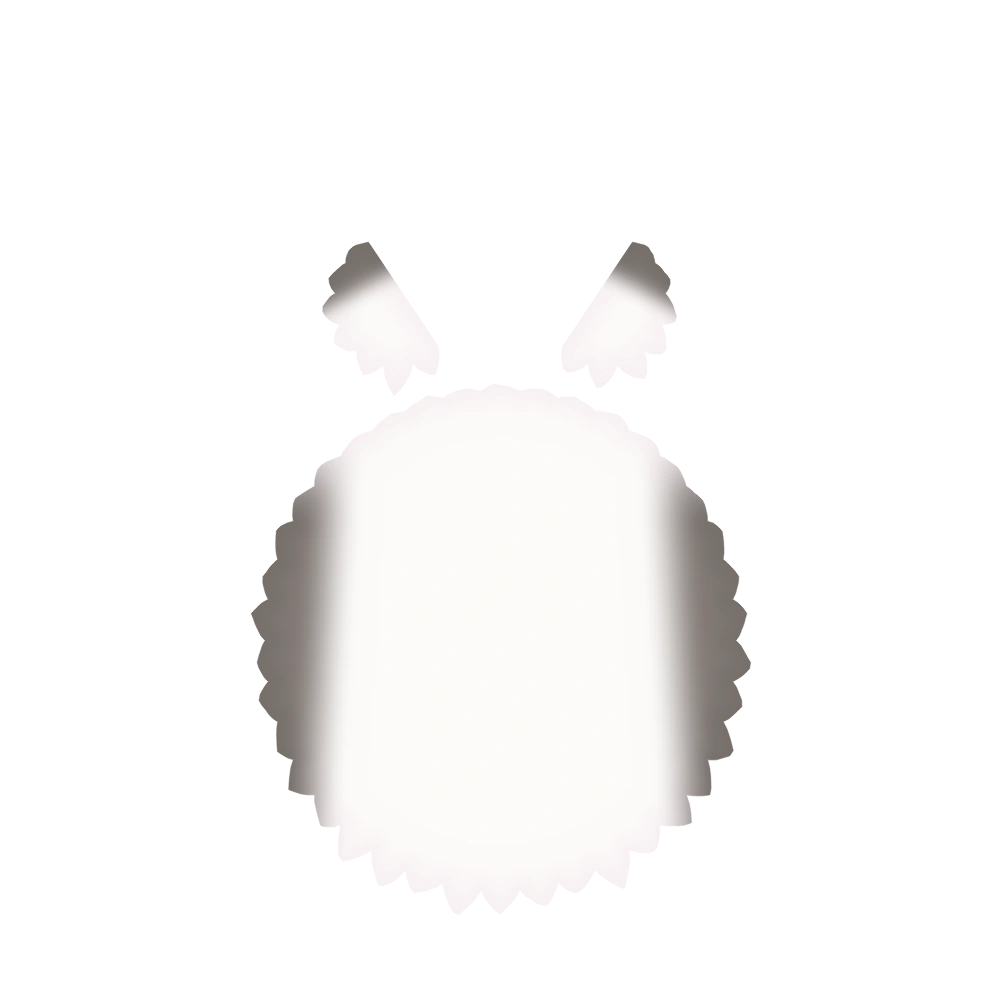
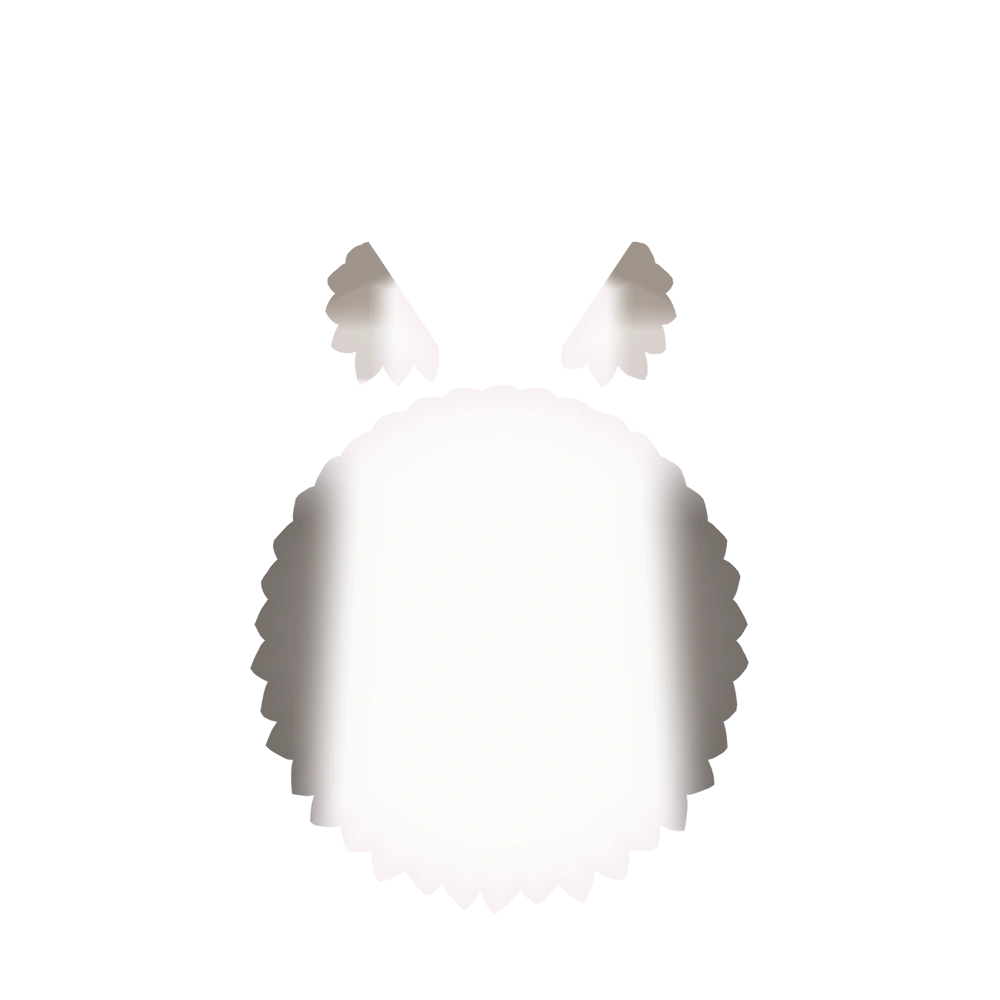
Playground: finer Ana face from her photos (narrow blaze, grey around the eyes with forehead streaks, warm lighter cheeks, bright yellow eyes, ear hair)
Claude-Session: https://claude.ai/code/session_01W4x6f7KtFbhsBZfqVxHVQA

diff --git a/william/ana/make_ana.py b/william/ana/make_ana.py
@@ -19,9 +19,21 @@ def lum(c): return c[..., 0] * 0.11 + c[..., 1] * 0.59 + c[..., 2] * 0.3
 # ---- アナちゃんの模様（モデル上の位置で決める。顔の土台にも まぶたにも 同じ式を使う＝色が つながる） ----
 def face_mark(mx, my):
     du = np.abs(mx - 1000)
-    blaze = 26 + 150 * ss(520, 760, my) ** 1.3                         # ひたいの白い筋：上は細く、目の高さで 目の内がわまで
-    yb = 742 + np.clip(du - 150, 0, 300) * 0.55                        # 灰色の下のふち：目の上まで。外がわほど 下まで
+    blaze = (26 + 34 * ss(520, 700, my) + 150 * ss(770, 880, my))   # 白い筋：ひたい〜両目のあいだは 細い。目より下で 口元へ 広がる（写真）
+    yb = 800 + np.clip(du - 100, 0, 300) * 0.5                         # 灰色の下のふち：目のまわりを つつむ。外がわほど 下まで
     return ss(blaze - 14, blaze + 22, du) * ss(yb + 34, yb - 26, my)
+GREIGE = np.array([150, 160, 172], np.float32); STREAK = np.array([56, 58, 64], np.float32)   # ほおの あたたかい うすい灰色／ひたいの こい すじ（BGR）
+def face_colour(mx, my):
+    """顔の色（写真の アナちゃん）：ひたいは こい灰色に たての こい すじ、目の外がわ〜ほおは うすい あたたかい灰色、まん中と 口元は 白。返すのは (灰色の重み, 灰色の色)"""
+    du = np.abs(mx - 1000); blaze = (26 + 34 * ss(520, 700, my) + 150 * ss(770, 880, my))
+    gt = face_mark(mx, my)
+    streak = (0.5 + 0.5 * np.sin(du * 0.105 + 0.6 + np.sin(my * 0.02) * 0.6)) ** 3 * ss(770, 660, my) * ss(blaze + 6, blaze + 34, du)   # ひたいの すじ（M の字の たて線）
+    inner = np.exp(-((du - (blaze + 10)) / 16.0) ** 2) * ss(760, 690, my) * ss(540, 600, my)                                             # 白い筋の きわは 少し こい（目頭から上へ のびる線）
+    top = (DARK * 0.35 + GREY * 0.65)[None, None] * (1 - np.clip(streak * 1.0 + inner * 0.7, 0, 1))[..., None] + STREAK[None, None] * np.clip(streak * 1.0 + inner * 0.7, 0, 1)[..., None]
+    warm = np.clip(ss(690, 840, my) * 0.75 + ss(170, 290, du) * 0.35, 0, 0.85)[..., None]; top = top * (1 - warm) + GREIGE[None, None] * warm   # 下・外がわへ行くほど うすい あたたかい灰色（写真）
+    cheek = ss(205, 270, du) * ss(1010, 900, my) * ss(690, 770, my) * 0.9                                                                # ほお：うすい あたたかい灰色
+    g = np.maximum(gt, cheek); k = (gt / np.maximum(g, 1e-4))[..., None]
+    return g, top * k + GREIGE[None, None] * (1 - k)
 def body_mark(mx, my):
     return ss(300, 420, np.abs(mx - 1000) + (1700 - my) * 0.06) * ss(1150, 1350, my)   # せなか：体のわきが灰色
 
@@ -44,9 +56,9 @@ def drop(a, x0, y0, x1, y1, pred):
 # ================= 体のテクスチャ（顔の部品は 透明） =================
 A = src.copy()
 def paint_face(reg, sel, mx, my):
-    g = face_mark(mx, my)[..., None]; base = reg[..., :3].astype(np.float32); L = lum(base)[..., None]
+    g, gc = face_colour(mx, my); g = g[..., None]; base = reg[..., :3].astype(np.float32); L = lum(base)[..., None]
     white = np.where(L > 222, base, WHITE * np.clip(L / 250 + 0.12, 0.9, 1))          # William の ぶち は 白に戻す（明るい所の 陰影は 残す）
-    col = white * (1 - g) + (DARK * 0.35 + GREY * 0.65) * g; reg[sel, :3] = col[sel].clip(0, 255).astype(np.uint8)
+    col = white * (1 - g) + gc * g; reg[sel, :3] = col[sel].clip(0, 255).astype(np.uint8)
 map_part(A, 'D_FACE_00', paint_face)
 def paint_back(reg, sel, mx, my):
     g = body_mark(mx, my)[..., None]; base = reg[..., :3].astype(np.float32); L = lum(base)[..., None]
@@ -59,6 +71,12 @@ for x in range(1380, 2030):                                                     
 for (x0, y0, x1, y1) in [(1255, 1695, 1425, 2000), (1640, 1700, 1830, 1965), (1845, 1700, 2030, 1968)]:   # 耳の外がわ：アナちゃんの灰色に
     reg = A[y0:y1, x0:x1]; L = lum(reg[..., :3].astype(np.float32)); sel = (reg[..., 3] > 0) & (L < 190) & (np.ptp(reg[..., :3].astype(np.int32), axis=2) < 40)
     reg[sel, :3] = (GREY * np.clip(L[sel] / 120, 0.75, 1.15)[:, None]).clip(0, 255).astype(np.uint8)
+for (x0, y0, x1, y1, sx) in [(1247, 1432, 1400, 1693, -1), (1427, 1427, 1588, 1692, 1)]:                       # 耳の中：長い白い毛（写真）
+    reg = A[y0:y1, x0:x1]; lay = np.ascontiguousarray(reg[..., :3]); h_, w_ = reg.shape[:2]
+    for i in range(70):
+        bx = rng.uniform(0.15, 0.85) * w_; by = h_ - rng.uniform(0.02, 0.4) * h_; L_ = rng.uniform(0.25, 0.7) * h_; dx = rng.uniform(-0.2, 0.2) * L_ + sx * 0.12 * L_
+        pts = (np.array([[bx, by], [bx + dx * 0.5, by - L_ * 0.5], [bx + dx, by - L_]]) * 8).astype(np.int32); v = rng.randint(240, 254); cv2.polylines(lay, [pts], False, (v, v, v), 2, cv2.LINE_AA, 3)
+    al = reg[..., 3:] > 0; reg[..., :3] = np.where(al, (reg[..., :3].astype(np.float32) * 0.7 + lay.astype(np.float32) * 0.3).astype(np.uint8), reg[..., :3])
 reg = A[575:1060, 250:490]; L = lum(reg[..., :3].astype(np.float32)); sel = (reg[..., 3] > 0) & (L < 226) & (np.ptp(reg[..., :3].astype(np.int32), axis=2) < 18); reg[sel, :3] = (246, 243, 244)   # William の 足の ぶち を消す
 drop(A[..., 3], 410, 1085, 1400, 1390, lambda s: s[cv2.CC_STAT_AREA] > 20000)          # しっぽは 別に描く
 A[1475:, :1240, 3] = 0; A[1270:1475, 495:1240, 3] = 0; A[1960:2040, 1315:1540, 3] = 0   # 顔の部品は 透明
@@ -71,8 +89,15 @@ a[:1085, :] = 0; a[1085:1470, :445] = 0; a[590:1462, 1375:] = 0
 drop(a, 410, 1085, 1400, 1390, lambda s: s[cv2.CC_STAT_AREA] > 20000)
 drop(a, 1235, 1415, 2040, 2040, lambda s: s[cv2.CC_STAT_AREA] > 3000 and s[cv2.CC_STAT_TOP] + 1415 < 1960)
 def paint_rim(reg, sel, mx, my):
-    g = face_mark(mx, my)[..., None]; col = WHITE * (1 - g) + (DARK * 0.35 + GREY * 0.65) * g; reg[sel, :3] = col[sel].clip(0, 255).astype(np.uint8)
+    g, gc = face_colour(mx, my); g = g[..., None]; col = WHITE * (1 - g) + gc * g; reg[sel, :3] = col[sel].clip(0, 255).astype(np.uint8)
 for pid in ('D_EYE_02', 'D_EYE_03', 'D_EYE_04', 'D_EYE_05'): map_part(B, pid, paint_rim)   # まぶた：顔の土台と 同じ模様の色
+# 目：写真の アナちゃんは 明るい 金色〜黄色。目のふちの線は こく はっきり
+for (x0, y0, x1, y1) in [(545, 1818, 678, 1946), (780, 1818, 908, 1946)]:
+    reg = B[y0:y1, x0:x1]; hsv = cv2.cvtColor(reg[..., :3], cv2.COLOR_BGR2HSV).astype(np.float32); sel = (hsv[..., 1] > 70) & (reg[..., 3] > 0)
+    hsv[..., 0] = np.where(sel, 26, hsv[..., 0]); hsv[..., 1] = np.where(sel, hsv[..., 1] * 0.78, hsv[..., 1]); hsv[..., 2] = np.where(sel, np.clip(hsv[..., 2] * 1.3 + 22, 0, 255), hsv[..., 2])
+    reg[..., :3] = cv2.cvtColor(hsv.clip(0, 255).astype(np.uint8), cv2.COLOR_HSV2BGR)
+for (x0, y0, x1, y1) in [(530, 1335, 680, 1530), (775, 1335, 920, 1530)]:
+    reg = B[y0:y1, x0:x1]; sel = reg[..., 3] > 0; reg[sel, :3] = (reg[sel, :3].astype(np.float32) * 0.62 + np.array([52, 48, 46]) * 0.38).astype(np.uint8)
 os.makedirs(os.path.join(ROOT, 'public', 'w', 'ana.2048'), exist_ok=True)
 cv2.imwrite(os.path.join(ROOT, 'public', 'w', 'ana.2048', 'texture_00.png'), B, [cv2.IMWRITE_PNG_COMPRESSION, 9])
 for nm in ('ana', 'anabody'):
@@ -106,8 +131,10 @@ def save(img, name): Image.fromarray(cv2.cvtColor(img, cv2.COLOR_BGRA2RGBA)).sav
 mb = tuft_shape(1000, 1580, 470, 500, 38, 0.07, 0.6, 0.0, math.pi * 2)
 mc = np.maximum(tuft_shape(790, 900, 120, 130, 7, 0.26, 0.7, math.pi * 0.25, math.pi * 1.35), tuft_shape(1210, 900, 120, 130, 7, 0.26, 0.7, -math.pi * 0.35, math.pi * 0.75))
 m = np.maximum(mb, mc)
-gb = np.maximum(ss(300, 420, np.abs(MX - 1000) + (1700 - MY) * 0.06) * ss(1150, 1350, MY), face_mark(MX, MY - 60) * (MY < 1000) * ss(150, 215, np.abs(MX - 1000)))
+gb = np.maximum(ss(300, 420, np.abs(MX - 1000) + (1700 - MY) * 0.06) * ss(1150, 1350, MY), 0 * MX)
 back = soft_paint(m, gb, edge_shade(m, 30) * 0.4)
+cg, cc = face_colour(MX, np.minimum(MY, 960)); ck = (cg * (MY < 1060) * ss(170, 230, np.abs(MX - 1000)))[..., None]   # ほおの毛は 顔と同じ色（うすい あたたかい灰色）
+back[..., :3] = (back[..., :3] * (1 - ck) + cc * ck * 0.97).clip(0, 255).astype(np.uint8)
 save(back, 'ana_back.webp')
 # 胸のたてがみ：あごの下から 房になって下がる 白い毛。上は 胸に とけこむ（ふちを 見せない）
 mm = tuft_shape(1000, 1300, 300, 330, 13, 0.14, 0.85, 0.0, math.pi)
